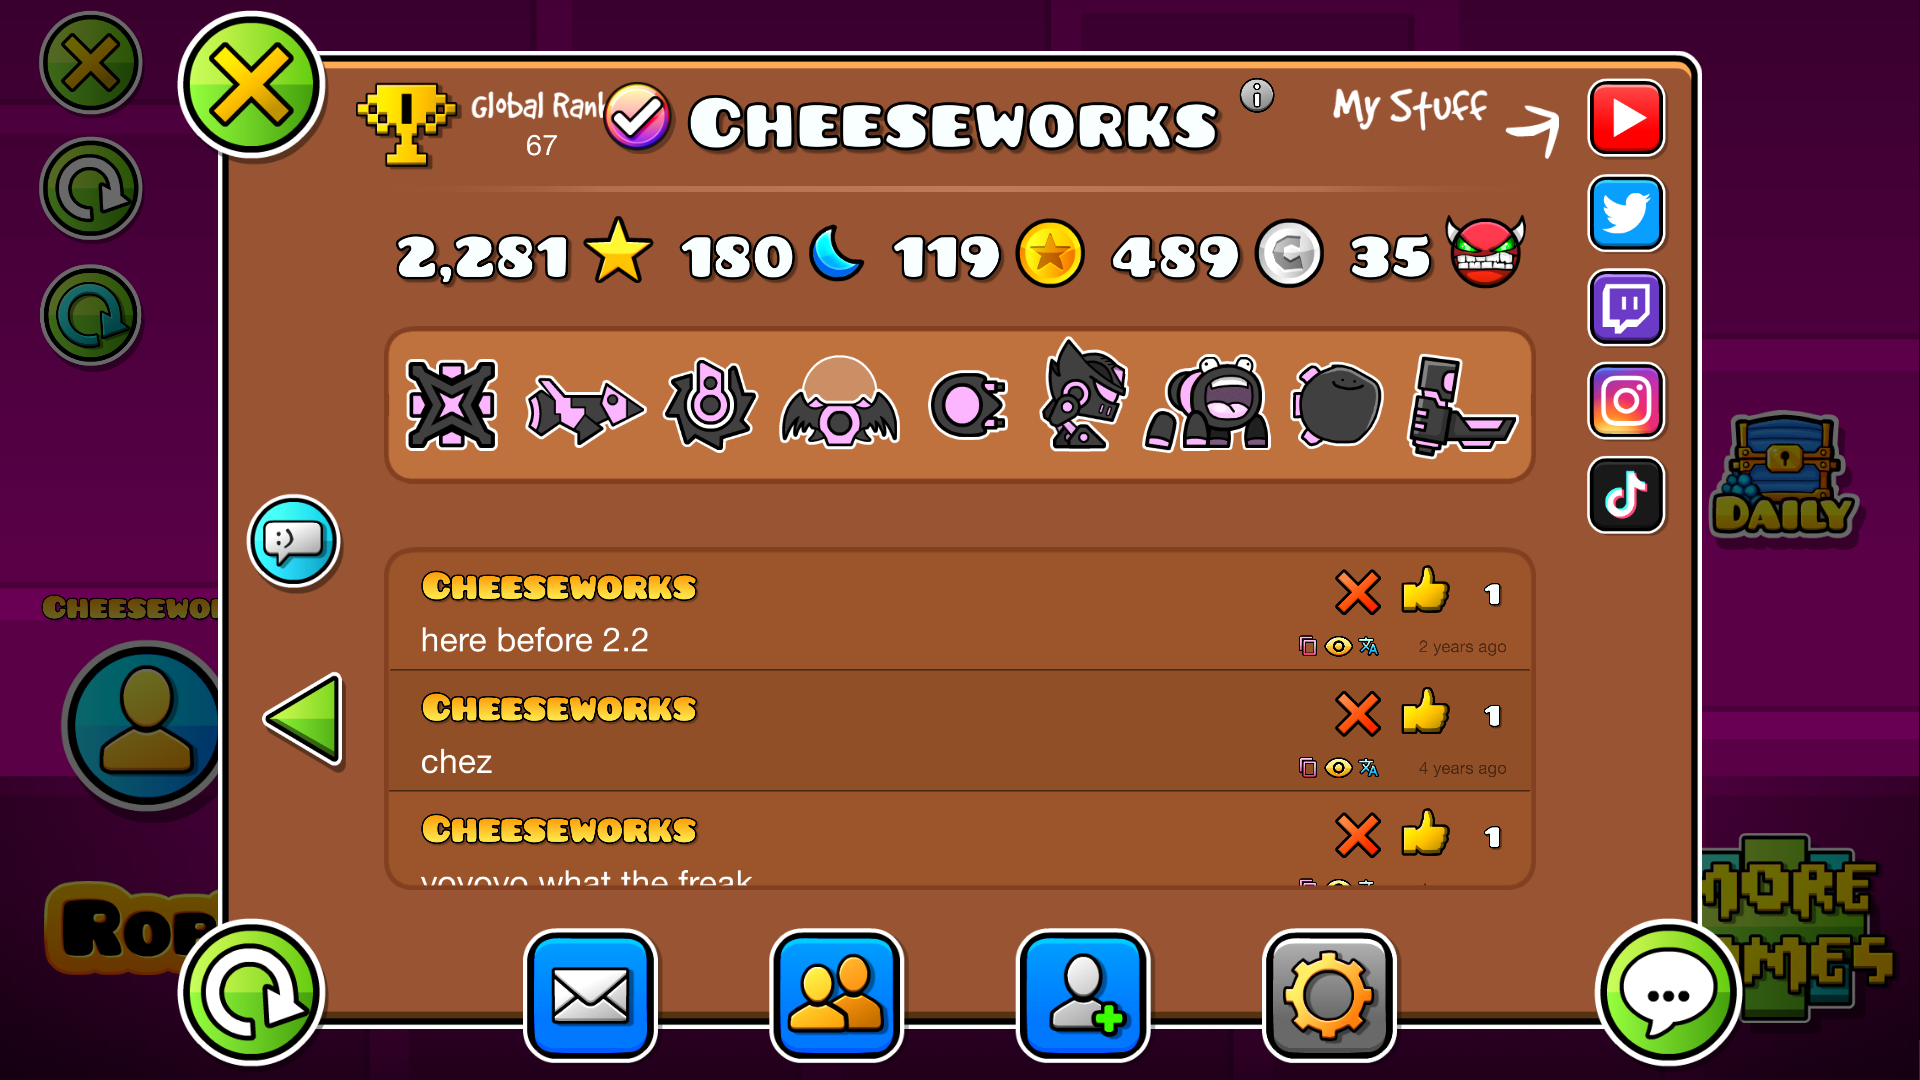
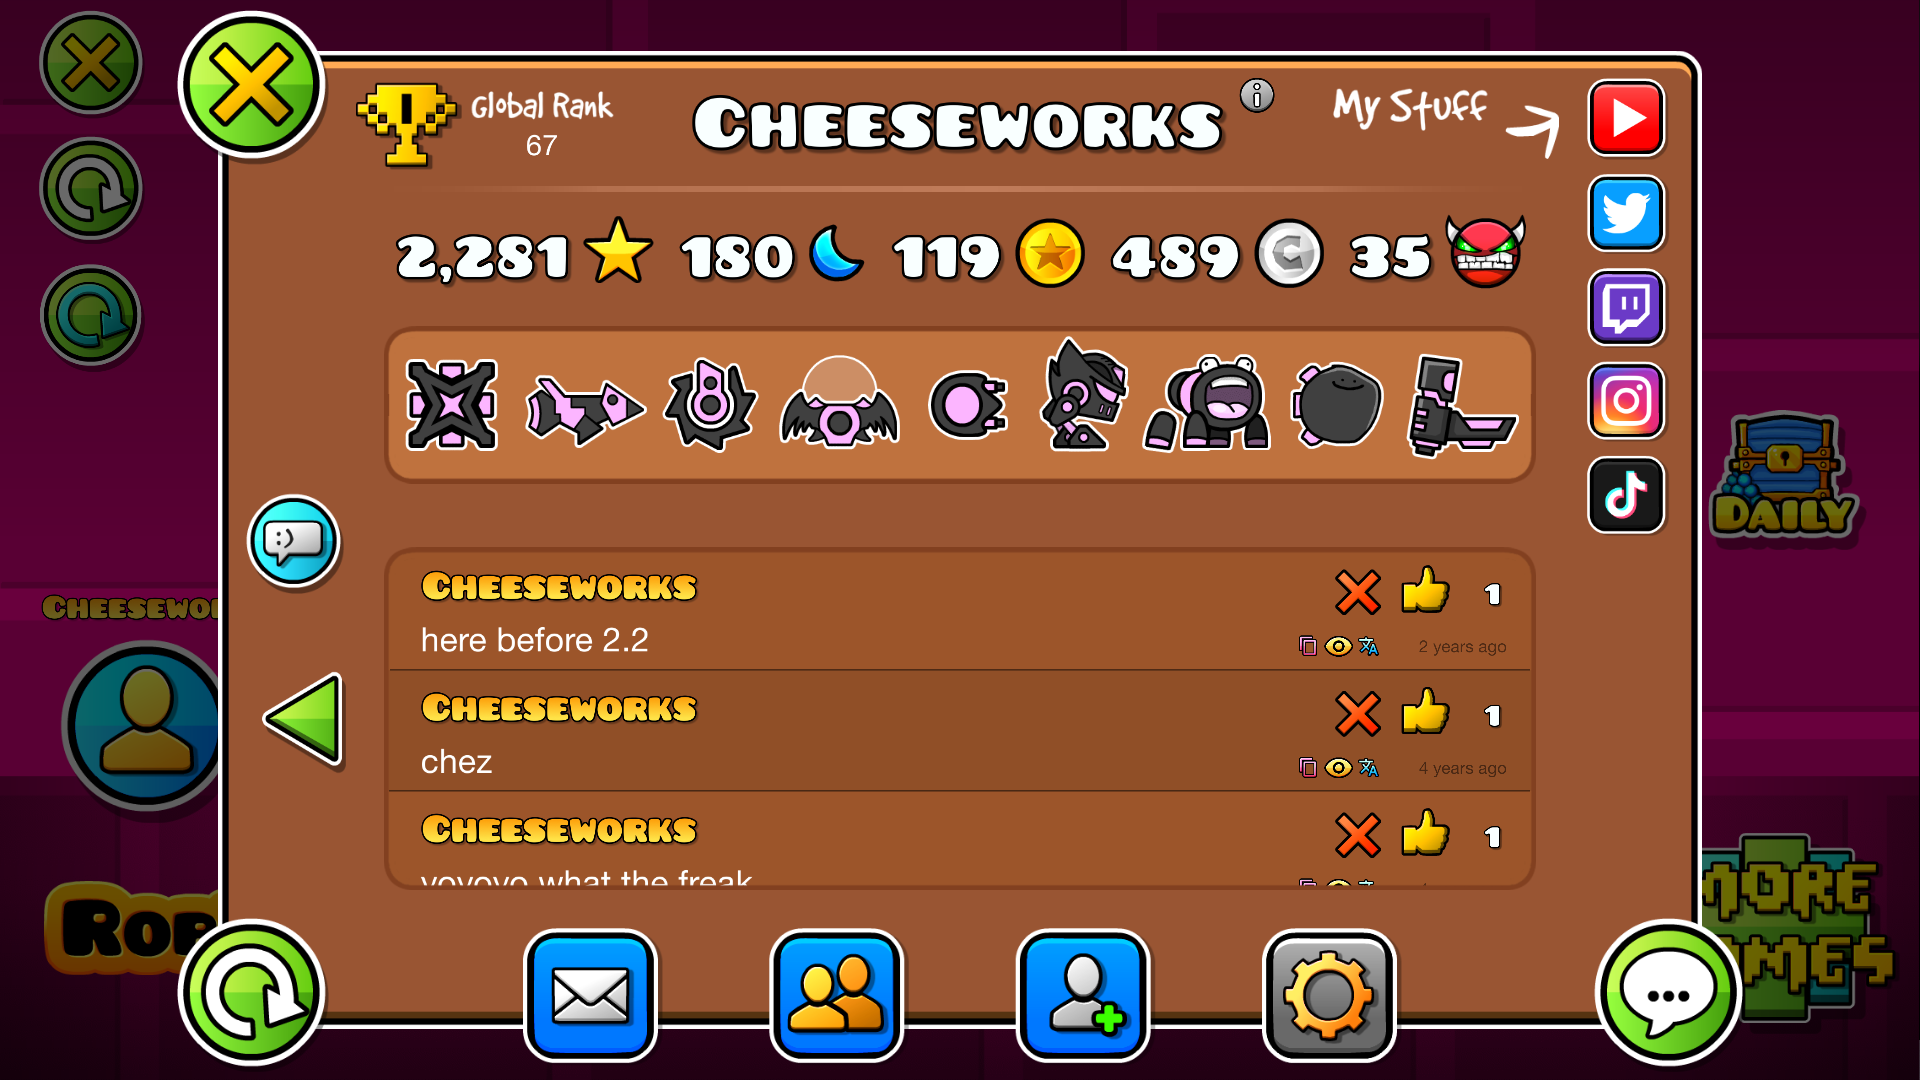
quicc fixes

Changed region(s): [[0.3125, 0.0611, 0.6562, 0.1528]]

diff --git a/src/main.cpp b/src/main.cpp
@@ -2,7 +2,11 @@
 
 #include <Geode/Geode.hpp>
 
+#include <Geode/ui/GeodeUI.hpp>
+#include <Geode/ui/Button.hpp>
+
 #include <Geode/modify/ProfilePage.hpp>
+#include <Geode/modify/GJAccountSettingsLayer.hpp>
 
 using namespace geode::prelude;
 
@@ -10,7 +14,6 @@ static constexpr int s_zOrder = 10;
 
 static constexpr CCPoint s_rankHintPos = {160.5f, 289.f};
 static constexpr CCPoint s_rankPos = {s_rankHintPos.x, 277.f};
-static constexpr CCPoint s_trophyPos = {s_rankPos.x - 40.f, 283.f};
 
 static constexpr float s_rankScale = 0.6f;
 
@@ -30,18 +33,15 @@ namespace settings {
 };
 
 namespace nodes {
-    constexpr auto icon = "global-rank-icon";
     constexpr auto label = "global-rank-label";
     constexpr auto hint = "global-rank-hint";
+    constexpr auto icon = "global-rank-icon";
 };
 
 class $modify(FLRProfilePage, ProfilePage) {
     static void onModify(auto& self) {
         utils::StringMap<std::shared_ptr<Hook>>& hooks = self.m_hooks;
-
-        for (auto& hook : hooks | std::views::values) {
-            (void)self.setHookPriorityPre(hook->getDisplayName(), Priority::FirstPre);
-        };
+        for (auto& hook : hooks | std::views::values) (void)self.setHookPriorityPre(hook->getDisplayName(), Priority::FirstPre);
     };
 
     struct Fields {
@@ -66,11 +66,11 @@ class $modify(FLRProfilePage, ProfilePage) {
 
         if (m_ownProfile || score->isCurrentUser()) {
             WeakRef<CCSprite> globalRankIcon = nullptr;
-            bool isHint = false;
+            WeakRef<CCSprite> globalRankHint = nullptr;
 
             auto const rankStr = utils::numToString(f->fakeRank);
 
-            if (score->m_globalRank <= 0) {  // check for leaderboard ban
+            if (score->m_globalRank <= 0) {  // check for leaderboard ban, nodes arent created if so
                 log::warn("player {} is leaderboard banned!", score->m_userName);
 
                 auto newLabel = CCLabelBMFont::create(rankStr.c_str(), "chatFont.fnt");
@@ -80,31 +80,32 @@ class $modify(FLRProfilePage, ProfilePage) {
 
                 m_mainLayer->addChild(newLabel, s_zOrder);
                 f->globalRankLabel = newLabel;
+
+                auto newHint = CCSprite::createWithSpriteFrameName("gj_globalRankTxt_001.png");
+                newHint->setID(nodes::hint);
+                newHint->setPosition(s_rankHintPos);
+
+                m_mainLayer->addChild(newHint, s_zOrder);
+                globalRankHint = newHint;
             } else {
                 log::info("player {} is on the leaderboards!", score->m_userName);
 
                 globalRankIcon = typeinfo_cast<CCSprite*>(m_mainLayer->getChildByID(nodes::icon));
-                if (typeinfo_cast<CCSprite*>(m_mainLayer->getChildByID(nodes::hint))) isHint = true;
+                globalRankHint = typeinfo_cast<CCSprite*>(m_mainLayer->getChildByID(nodes::hint));
 
                 if (auto label = typeinfo_cast<CCLabelBMFont*>(m_mainLayer->getChildByID(nodes::label))) f->globalRankLabel = label;
             };
 
             auto newIcon = CCSprite::createWithSpriteFrameName(f->autoIcon ? getTrophySpriteByRank(f->fakeRank) : getTrophySprite(f->icon));
             newIcon->setID(nodes::icon);
-            newIcon->setPosition(s_trophyPos);
 
             if (auto label = f->globalRankLabel.lock()) label->setString(rankStr.c_str());
+            if (auto hint = globalRankHint.lock()) newIcon->setPosition({(hint->getPositionX() - hint->getScaledContentWidth()) + 3.f, 283.f});
             if (auto icon = globalRankIcon.lock()) icon->removeMeAndCleanup();
 
             m_mainLayer->addChild(newIcon, s_zOrder);
-
-            if (!isHint) {
-                auto newHint = CCSprite::createWithSpriteFrameName("gj_globalRankTxt_001.png");
-                newHint->setID(nodes::hint);
-                newHint->setPosition(s_rankHintPos);
-
-                m_mainLayer->addChild(newHint, s_zOrder);
-            };
+        } else {
+            ProfilePage::loadPageFromUserInfo(score);
         };
     };
 
@@ -136,5 +137,29 @@ class $modify(FLRProfilePage, ProfilePage) {
         if (rank <= 10000) return getTrophySprite(settings::top10000);
 
         return getTrophySprite(settings::all);
+    };
+};
+
+class $modify(FLRGJAccountSettingsLayer, GJAccountSettingsLayer) {
+    bool init(int accountID) {
+        if (!GJAccountSettingsLayer::init(accountID)) return false;
+
+        auto settingsBtn = Button::createWithNode(
+            CircleButtonSprite::createWithSpriteFrameName(
+                "rankIcon_1_001.png",
+                1.125f,
+                CircleBaseColor::Green,
+                CircleBaseSize::Small),
+            [](auto) {
+                openSettingsPopup(Mod::get());
+            });
+        settingsBtn->setID("rank-settings-btn"_spr);
+        settingsBtn->setScale(0.875f);
+        settingsBtn->setPosition({(m_mainLayer->getScaledContentWidth() / 2.f) + 190.f, 20.f});
+        settingsBtn->setTouchPriority(-999);  // fuck this layer
+
+        m_mainLayer->addChild(settingsBtn, 9);
+
+        return true;
     };
 };

diff --git a/README.md b/README.md
@@ -1,4 +1,4 @@
-# [<img src="logo.png" width="25" alt="The mod's logo." />](https://www.geode-sdk.org/mods/cheeseworks.template) Custom Rank
+# [<img src="logo.png" width="25" alt="The mod's logo." />](https://www.geode-sdk.org/mods/cheeseworks.fakeleaderboardrank) Custom Rank
 Customize your leaderboard rank!
 
 > [![YouTube](https://img.shields.io/youtube/channel/subscribers/UCi2M6N_ff1UC6MyfWzKQvgg?style=for-the-badge&logo=youtube&logoColor=ffffff&label=YouTube)](https://www.youtube.com/@cheese_works/) [![Bluesky](https://img.shields.io/bluesky/followers/cheeseworks.gay?style=for-the-badge&logo=bluesky&logoColor=ffffff&label=Bluesky)](https://bsky.app/profile/cheeseworks.gay) [![Discord](https://img.shields.io/discord/734050209591459950?style=for-the-badge&logo=discord&logoColor=ffffff&label=Discord)](https://dsc.gg/cheeseworks)
@@ -32,6 +32,9 @@ In this mod's settings, you can find the settings you need to customize the lead
 - 🏆 Top 10,000
 
 🏆 All
+
+> [!TIP]
+> *You can find a shortcut to the mod settings in your profile's settings pop-up.*
 
 ---
 

diff --git a/about.md b/about.md
@@ -29,6 +29,8 @@ In this <cg>mod's settings</c>, you can find the settings you need to customize 
 
 ![🏆](frame:rankIcon_all_001.png?scale=0.5) All
 
+> ![✳](frame:collaborationIcon_001.png) <cg>*You can find a shortcut to the mod settings in your profile's settings pop-up.*</c>
+
 ---
 
 ![🗨](frame:gj_discordIcon_001.png?scale=0.375) **If you need help, join my [support Discord server](https://www.dsc.gg/cheeseworks) and ask! :)**

diff --git a/changelog.md b/changelog.md
@@ -1,2 +1,6 @@
+# v1.0.1 
+- Fixed trophy icon positioning on wider screens
+- Added settings shortcut in profile settings pop-up
+
 # v1.0.0 
 - Initial release
